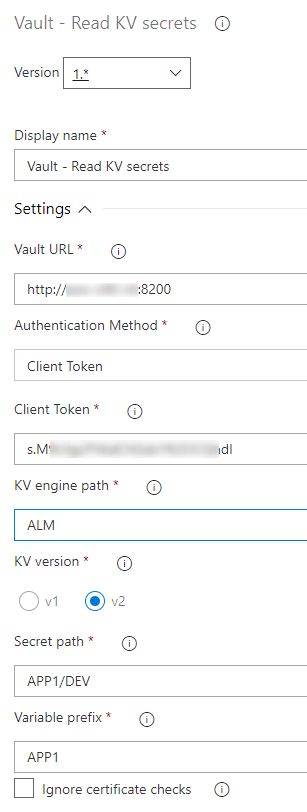
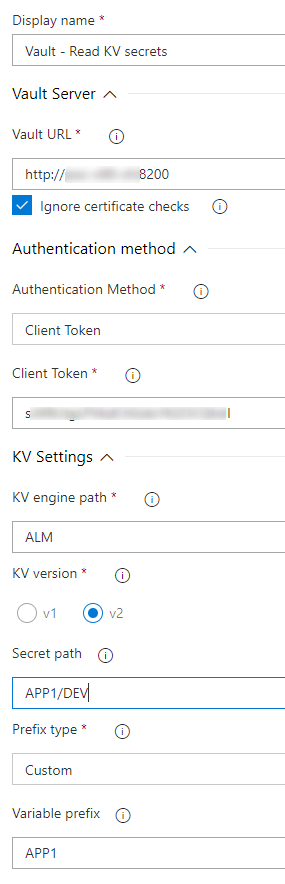
The task now can recursively load secrets from a folders and his subfolders. Or just load secrets from a specific path.

diff --git a/src/kv_read/kv_read.ts b/src/kv_read/kv_read.ts
@@ -13,40 +13,154 @@ async function run() {
 		var strUrl = tl.getInput('strUrl', true);
 		var ignoreCertificateChecks = tl.getBoolInput('ignoreCertificateChecks', true);
 
-		var strVariablePrefix = tl.getInput('strVariablePrefix', true);
 		var strKVEnginePath = tl.getInput('strKVEnginePath', true);
 		var kvVersion = tl.getInput('kvVersion', true);
-		var strSecretPath = tl.getInput('strSecretPath', true);
-		var strVariablePrefix = tl.getInput('strVariablePrefix', true);
+		var strSecretPath = tl.getInput('strSecretPath', false);
+		var strPrefixType = tl.getInput('strPrefixType', true);
+		var strVariablePrefix = tl.getInput('strVariablePrefix', false);
+
+		if(!strSecretPath){
+			strSecretPath = "";
+		}
+		if(!strVariablePrefix){
+			strVariablePrefix = "";
+		}
 
 		console.log("[INFO] Vault URL : '" + strUrl + "'");
 
 		getToken().then(async function(token) {
-			
-			var restURL = null;
 
-			switch(kvVersion){
-				case "v1":
-					restURL	= url.resolve(strUrl,'/v1/' + strKVEnginePath + '/' + strSecretPath);
-					break;
-				case "v2":
-					restURL	= url.resolve(strUrl,'/v1/' + strKVEnginePath + '/data/' + strSecretPath);
-					break;
-				default:
-					throw new Error("KV version not supported. v1 or v2 are supported.");
+			console.log("[INFO] KV engine path : '" + strKVEnginePath + "'");
+			console.log("[INFO] KV version : '" + kvVersion + "'");
+			console.log("[INFO] Secret path : '" + strSecretPath + "'");
+			console.log("[INFO] Variable prefix : '" + strVariablePrefix + "'");
+
+			if(strSecretPath.match(/.*\/$/)){
+				browseEngineAndGetSecrets(kvVersion, strUrl, ignoreCertificateChecks, token, strKVEnginePath, strSecretPath, strPrefixType, strVariablePrefix).then(function(result) {
+					tl.setResult(tl.TaskResult.Succeeded, "Wrapping successfull.");
+				}).catch(function(err) {
+					tl.setResult(tl.TaskResult.Failed, err);
+					throw new Error(err);
+				});	
+			}
+			else{
+				getSecrets(kvVersion, strUrl, ignoreCertificateChecks, token, strKVEnginePath, strSecretPath, strPrefixType, strVariablePrefix).then(function(result) {
+					tl.setResult(tl.TaskResult.Succeeded, "Wrapping successfull.");
+				}).catch(function(err) {
+					tl.setResult(tl.TaskResult.Failed, err);
+					throw new Error(err);
+				});	
 			}
 
-			console.log("[INFO] REST API URL called : '" + restURL + "'");
+			
 
-			requestVault(restURL, ignoreCertificateChecks, token, "GET", null).then(async function(result) {
+		}).catch(function(err) {
+			tl.setResult(tl.TaskResult.Failed, err);
+			throw new Error(err);
+		});
 
-				console.log("[INFO] KV engine path : '" + strKVEnginePath + "'");
-				console.log("[INFO] KV version : '" + kvVersion + "'");
-				console.log("[INFO] Secret path : '" + strSecretPath + "'");
-				console.log("[INFO] Variable prefix : '" + strVariablePrefix + "'");
+	} catch (err) {
+		tl.setResult(tl.TaskResult.Failed, err);
+	}
+	
+}
 
-				var resultJSON = JSON.parse(result);
+async function browseEngineAndGetSecrets(kvVersion, strUrl, ignoreCertificateChecks, token, strKVEnginePath, strSecretPath, strPrefixType, strVariablePrefix){
 
+	return new Promise(async (resolve, reject) => {
+
+		var listURL = null;
+
+		if(strSecretPath == "/"){
+			strSecretPath = "";
+		}
+		else if(strSecretPath.match(/^\/.*/)){
+			strSecretPath = strSecretPath.substr(1);
+		}
+		
+		switch(kvVersion){
+			case "v1":
+				listURL	= url.resolve(strUrl,path.normalize('/v1/' + strKVEnginePath + '/' + strSecretPath));
+				break;
+			case "v2":
+				listURL	= url.resolve(strUrl,path.normalize('/v1/' + strKVEnginePath + '/metadata/' + strSecretPath));
+				break;
+			default:
+				throw new Error("KV version not supported. v1 or v2 are supported.");
+		}
+
+		console.log("[INFO] Browse engine URL requested : [LIST] '" + listURL + "'");
+
+		requestVault(listURL, ignoreCertificateChecks, token, "LIST", null).then(async function(result) {
+
+			var resultJSON = JSON.parse(result);
+
+			for (var i = 0; i < resultJSON.data.keys.length; i++) {
+				try{
+
+					var newStrSecretPath = strSecretPath + "/" + resultJSON.data.keys[i];
+					if(strSecretPath.match(/.*\/$/) || strSecretPath == ""){
+						newStrSecretPath = strSecretPath + resultJSON.data.keys[i];
+					}
+					
+
+					if(resultJSON.data.keys[i].match(/.*\/$/)){
+						await browseEngineAndGetSecrets(kvVersion, strUrl, ignoreCertificateChecks, token, strKVEnginePath, newStrSecretPath, strPrefixType, strVariablePrefix);
+					}
+					else{
+						await getSecrets(kvVersion, strUrl, ignoreCertificateChecks, token, strKVEnginePath, newStrSecretPath, strPrefixType, strVariablePrefix);
+					}
+				}
+				catch(err){
+					reject("Error during browsing engine. " + err);
+				}
+			}
+
+			resolve(true);
+
+		}).catch(function(err) {
+			reject(err);
+		});
+	});
+
+}
+
+async function getSecrets(kvVersion, strUrl, ignoreCertificateChecks, token, strKVEnginePath, strSecretPath, strPrefixType, strVariablePrefix){
+
+	var getURL = null;
+
+	switch(strPrefixType){
+		case "folder":
+			strVariablePrefix = strSecretPath.replace("/","_");
+			break;
+		case "custom":
+			strVariablePrefix = strVariablePrefix;
+			break;
+		case "none":
+		default:
+			strVariablePrefix = "";
+	}
+
+	switch(kvVersion){
+		case "v1":
+			getURL	= url.resolve(strUrl,path.normalize('/v1/' + strKVEnginePath + '/' + strSecretPath));
+			break;
+		case "v2":
+			getURL	= url.resolve(strUrl,path.normalize('/v1/' + strKVEnginePath + '/data/' + strSecretPath));
+			break;
+		default:
+			throw new Error("KV version not supported. v1 or v2 are supported.");
+	}
+
+	console.log("[INFO] Get secrets URL requested : [GET] '" + getURL + "'");
+
+	return new Promise(async (resolve, reject) => {
+
+		requestVault(getURL, ignoreCertificateChecks, token, "GET", null).then(async function(result) {
+
+			var resultJSON = JSON.parse(result);
+
+			try{
 				switch(kvVersion){
 					case "v1":
 						await exportJSONValues(resultJSON.data, strVariablePrefix);
@@ -59,24 +173,19 @@ async function run() {
 					default:
 						throw new Error("KV version not supported. v1 or v2 are supported.");
 				}
+			}
+			catch(err){
+				reject(err);
+			}
 
-				tl.setResult(tl.TaskResult.Succeeded, "Wrapping successfull.");
-
-			}).catch(function(err) {
-				tl.setResult(tl.TaskResult.Failed, err);
-				throw new Error(err);
-			});
-			
+			resolve(true);
 
 		}).catch(function(err) {
-			tl.setResult(tl.TaskResult.Failed, err);
-			throw new Error(err);
+			reject(err);
 		});
 
-	} catch (err) {
-		tl.setResult(tl.TaskResult.Failed, err);
-	}
-	
+	});
+
 }
 
 run();

diff --git a/src/common/utils.ts b/src/common/utils.ts
@@ -10,9 +10,15 @@ export function exportJSONValues(obj: any, prefix: string): Promise<boolean> {
             var typeArray: string[] =["string", "number", "boolean"];
 
             if (obj instanceof Array) {
+                if(prefix != ""){
+                    prefix = prefix + "_";
+                }
+                else{
+                    prefix = "";
+                }
                 for (var i = 0; i < obj.length; i++) {
                     var element = obj[i];
-                    await exportJSONValues(element, prefix + "_" + i.toString());
+                    await exportJSONValues(element, prefix + i.toString());
                 }
             }
             else if (typeArray.indexOf(typeof obj) > -1){
@@ -22,10 +28,16 @@ export function exportJSONValues(obj: any, prefix: string): Promise<boolean> {
                 tl.setVariable(prefix, objValue, true);
             }
             else{
+                if(prefix != ""){
+                    prefix = prefix + "_";
+                }
+                else{
+                    prefix = "";
+                }
                 for (var key in obj) {
                     if (obj.hasOwnProperty(key)) {
                         var element = obj[key];
-                        await exportJSONValues(element, prefix + "_" + key);
+                        await exportJSONValues(element, prefix + key);
                     }
                 }
             }

diff --git a/test/kv_read.js b/test/kv_read.js
@@ -50,7 +50,8 @@ switch(strAuthType){
 tr.setInput("strKVEnginePath", conf.kv_read.strKVEnginePath);
 tr.setInput("kvVersion", conf.kv_read.kvVersion);
 tr.setInput("strSecretPath", conf.kv_read.strSecretPath);
-tr.setInput("strVariablePrefix", conf.kv_read.strVariablePrefix);
+tr.setInput("strVariablePrefix", conf.kv_read.strVariablePrefix ? conf.kv_read.strVariablePrefix : "");
+tr.setInput("strPrefixType", conf.kv_read.strPrefixType);
 
 tr.registerMock('azure-pipelines-task-lib/toolrunner', require('azure-pipelines-task-lib/mock-toolrunner'));
 tr.run();

diff --git a/src/common/request.ts b/src/common/request.ts
@@ -57,6 +57,10 @@ export function requestVault(requestedUrl: string, ignoreCertificateChecks: bool
             case "POST":
                 options.method = "POST";
                 break;
+            case "list":
+            case "LIST":
+                    options.method = "LIST";
+                    break;
             default:
             case "get":
             case "GET":

diff --git a/test/run_all.js b/test/run_all.js
@@ -15,6 +15,7 @@ describe('azure-devops-vault-interaction', function () {
         
         try {
             assert(tr.succeeded, "Should have succeeded");
+            console.log("STDOUT", tr.stdout);
             done();
         }
         catch (error) {

diff --git a/overview.md b/overview.md
@@ -16,20 +16,50 @@
 
   Provide the ability to read KV secrets from HashiCorp Vault and load them into variables.
 
-  __Example use case :__ Read secrets from a KV v2 engine called « ALM » located at path « APP1/DEV »
+  ## <span style="color:red">Note</span>  
+
+  The field « Secret path » have to ends with a « / » if you want to discover secrets across current folder and his subfolders.
+  See [Use case 2](#Use-case-2).
+  In discovery mode if the « Prefix type » is set to « None » or « Custom » and you have secrets with the same name in different folder the last value read will be set in the variable (erasing previus values).
+
+  ## __Examples__
+
+  For the examples the following folder structure is created.
+
+  ![Tree](screenshots/kv_read_00.png)
+
+  « ALM » is a KV v2 engine.
 
   ![KV v2](screenshots/kv_read_01.png)
 
+  « APP1 » and « APP2 » is two folders containing a subfolder « DEV » and two secret « key_1 » and « key_2 ».
+
   ![Secrets path](screenshots/kv_read_02.png)
 
-  ![Azure DevOps configuation](screenshots/kv_read_03.png)
+  ## Use case 1
+  
+  Read secrets from a KV v2 engine called « ALM » located at path « APP1/DEV ».
 
-  ![Azure DevOps output log](screenshots/kv_read_04.png)
+  ![Azure DevOps configuation 1](screenshots/kv_read_03.png)
+
+  ![Azure DevOps output log 1](screenshots/kv_read_04.png)
 
   There is now two variables called « APP1_key_1 » and « APP1_key_2 » that you can used in your next tasks by using $(APP1_key_1) and/or $(APP1_key_2).
 
+  ## Use case 2
+  
+  Read secrets from a KV v2 engine called « ALM » and browse recursively on sub folders.
+
+  ![Azure DevOps configuation 2](screenshots/kv_read_05.png)
+
+  ![Azure DevOps configuation 2](screenshots/kv_read_06.png)
+
+  There is now four variables called « APP1_DEV_key_1 », « APP1_DEV_key_2 », « APP2_DEV_key_1 », « APP2_DEV_key_2 » that you can used in your next tasks by using $(APP1_DEV_key_1), $(APP1_DEV_key_2), $(APP2_DEV_key_1), $(APP2_DEV_key_2).
 
 ## Release note
+
+### v2.0.0
+- The task now can recursively load secrets from a folders and his subfolders. Or just load secrets from a specific path.
 
 ### v1.1.0
 - Add Azure authentication method
